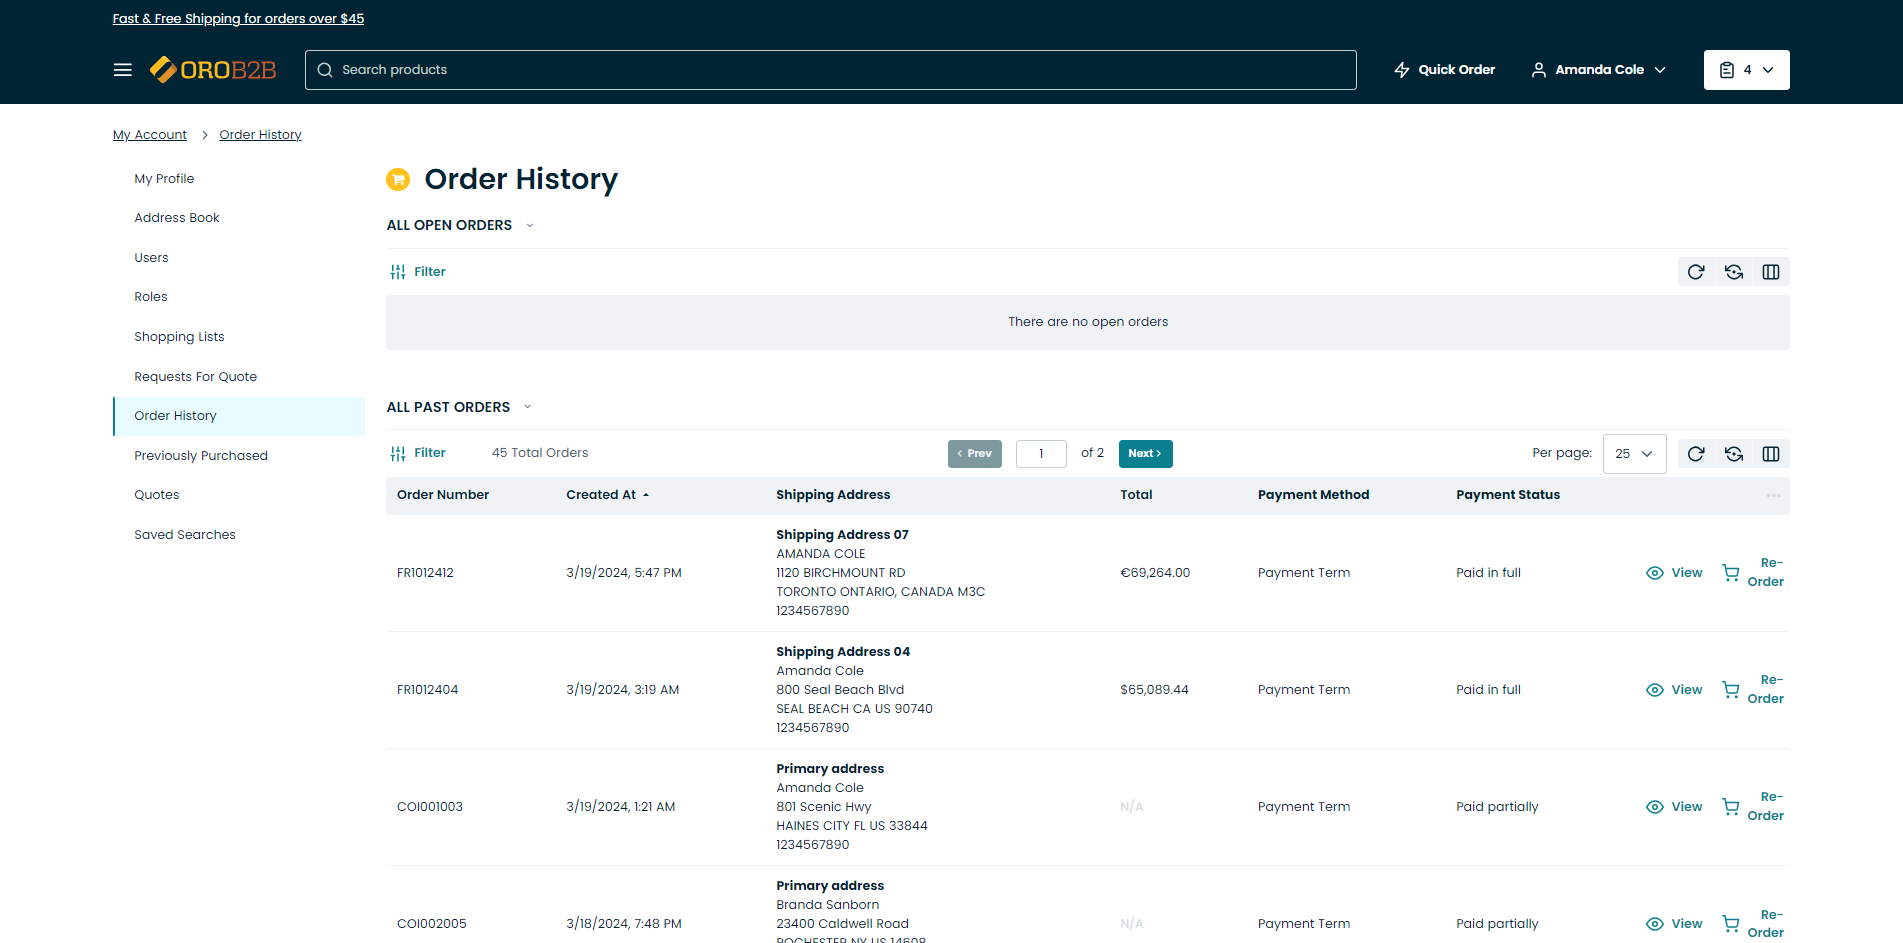
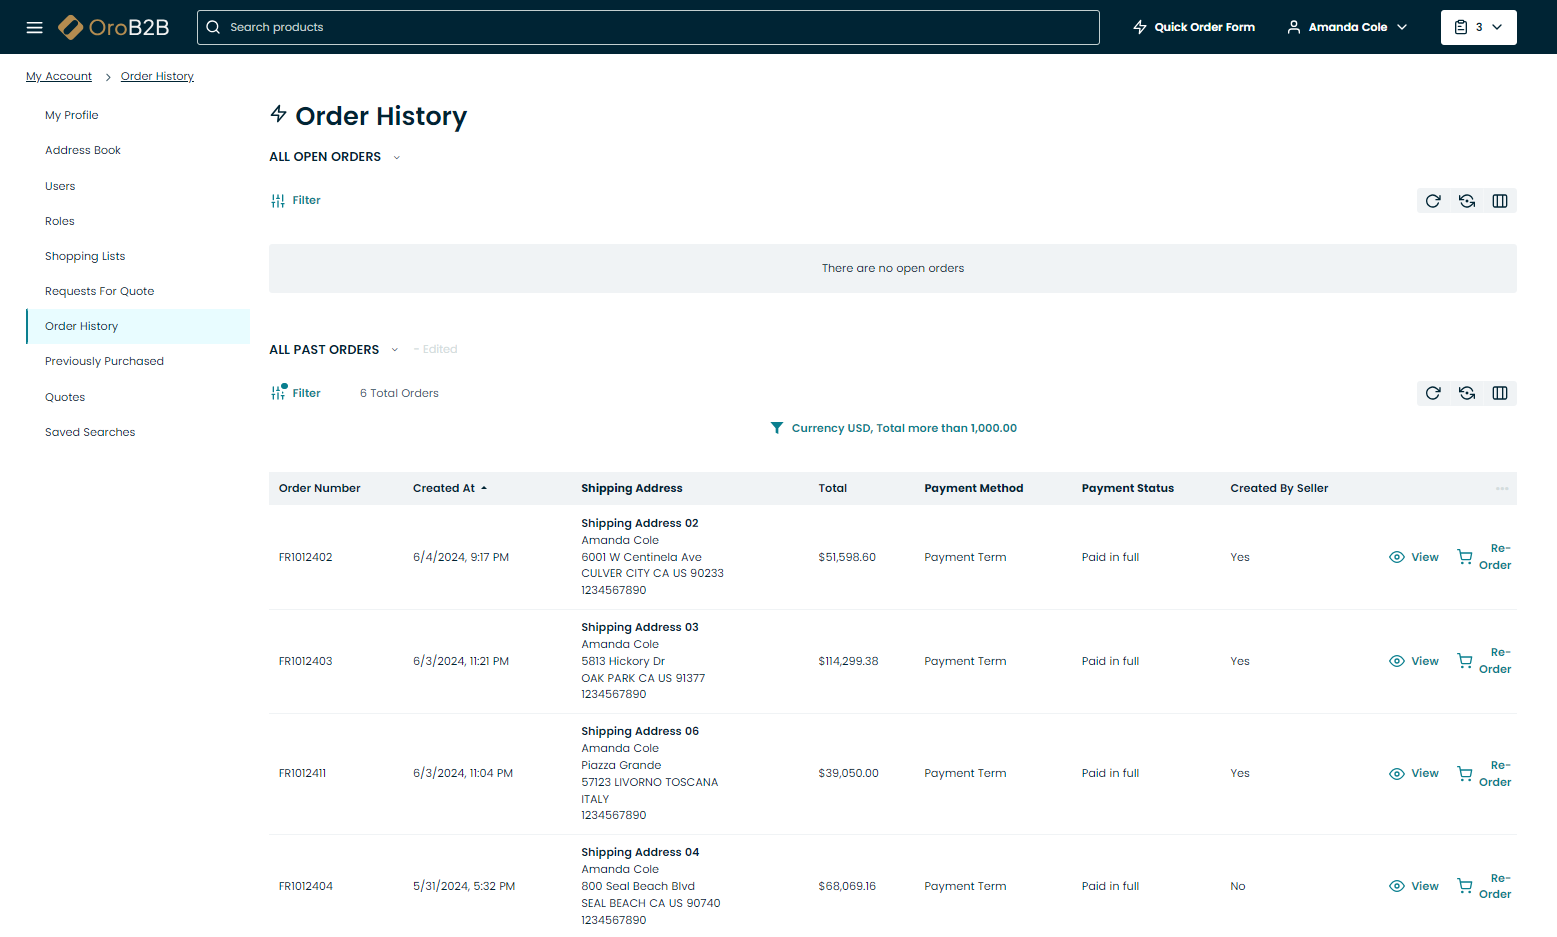
DOC-2213: Order Created By Doc  (#38636)
DOC-2213: Order Created By Documentation

diff --git a/user/back-office/customers/customer-users/index.rst b/user/back-office/customers/customer-users/index.rst
@@ -111,12 +111,14 @@ You may want to delegate some of the customer user management capabilities to th
 .. image:: /user/img/customers/customer_user_roles/CustomerUserRolesManageAccounts_cust.png
    :alt: The list of account management capabilities
 
+.. _user-guide--customers--customer-user-impersonate:
+
 Impersonate a Customer User
 ---------------------------
 
 .. hint:: This feature is available in the Enterprise edition.
 
-For troubleshooting purposes, user impersonation allows back-office users with the **Login as Customer User** :ref:`role capability <admin-capabilities>` to access and operate the OroCommerce storefront as if they were logged in as a specific customer user. Such back-office user is redirected to the website assigned to the customer user they are impersonating (i.e., the website where the customer user registered).
+For troubleshooting purposes or to place orders on behalf of a customer user, you can use user impersonation to allow back-office users with the **Login as Customer User** :ref:`role capability <admin-capabilities>` to access and operate the OroCommerce storefront as if they were logged in as a specific customer user. Such back-office user is redirected to the website assigned to the customer user they are impersonating (i.e., the website where the customer user registered).
 
 .. hint:: Before proceeding, make sure this feature is enabled in the system configuration :ref:`globally <system-configuration-user-impersonation>` or :ref:`per organization <organization-user-impersonation>`.
 
@@ -138,6 +140,15 @@ The storefront session in impersonation mode opens in a new browser tab.
    :alt: Impersonation mode in the storefront
 
 To exit impersonation mode, click **Log out** in the blue banner.
+
+.. note:: If a back-office user placed an order on behalf of the customer user, this will be reflected on the order view page in the storefront with the following note: *This order was created on your behalf by a member of our staff.*
+
+          .. image:: /user/img/storefront/orders/order-impersonated.png
+             :alt: An order view page with a note saying "This order was created on your behalf by a member of our staff".
+
+          In the back-office you can view who created the order on the order view page and in the grid.
+
+          .. image:: /user/img/customers/customer_user_roles/created-by.png
 
 .. _user-guide--customers--customer-user-reset-password:
 

diff --git a/user/storefront/account/order-history.rst b/user/storefront/account/order-history.rst
@@ -6,7 +6,7 @@
 Manage Order History in the Storefront
 ======================================
 
-The Order History section stores the information on all open and submitted orders of registered users. Here, you can check the details on the order number, the date it was created, the address this order was shipped to, the total amount, the payment method and the payment status.
+The Order History section stores the information on all open and submitted orders of registered users. Here, you can check the details on the order number, the date it was created, the address this order was shipped to, the total amount, the payment method and the payment status, and whether the order :ref:`was created by a seller or not <user-guide--customers--customer-user-impersonate>`.
 
 .. image:: /user/img/storefront/orders/order-history.png
 
@@ -27,6 +27,11 @@ From the all past orders table, you can:
 
 * Click |IcView| **View** at the end of the row to view an order or click the order to open it. To return to the Order History page, click **Back to Orders List** on the bottom left of the view page.
 * Click |IcCheckout| **Re-Order** at the end of the row to submit the same order
+
+If the order was created on behalf of the buyer, this will be reflected on the order view page with the following note: *This order was created on your behalf by a member of our staff.*
+
+.. image:: /user/img/storefront/orders/order-impersonated.png
+   :alt: An order view page with a note saying "This order was created on your behalf by a member of our staff".
 
 Information displayed in the tables depends on the columns selected in the |IcSettings| grid settings. Within each of the tables, you have the following :ref:`action buttons <frontstore-guide--navigation-action-buttons>` available:
 

diff --git a/user/back-office/sales/orders/view.rst b/user/back-office/sales/orders/view.rst
@@ -58,10 +58,11 @@ This section is for order details, such as who created the order or to which web
    "**Currency**","The currency in which the order is made."
    "**Subtotal**","The amount due for items in the order. Does not include additional costs, taxes, discounts."
    "**Customer**","The customer that made the order."
-   "**Customer User**","The customer user that made an order on behalf of the customer."
+   "**Customer User**","The customer user that created an order on behalf of their customer."
    "**Internal Status**","The order status visible only in the back-office. See the :ref:`description of internal statuses <doc--orders--statuses--internal>`."
    "**Do Not Ship Later Than**","The date on which the order expires."
    "**Source Document**","If the order has been created from an RFQ, quote, or another order, this field contains a link to the corresponding record. If the order was created from scratch (in the back-office) or through the quick order form (in the storefront), the field shows 'N/A'."
+   "* **Created By**","The name of the user who created an order on behalf of a customer user, either via the back-office or :ref:`customer user impersonation <user-guide--customers--customer-user-impersonate>` in the storefront."
    "**Payment Method**","The payment method selected to pay for the order."
    "**Payment Status**","Whether the order is already paid in full, the payment for the order is authorized, etc."
    "**Website**","The storefront website from which the order was made."

diff --git a/user/back-office/sales/orders/manage.rst b/user/back-office/sales/orders/manage.rst
@@ -29,6 +29,7 @@ The following information about orders is available:
 * **Source Document** --- If the order has been created from an RFQ, quote, or another order, this field contains a link to the corresponding record. If the order has been created from scratch (in the back-office) or the quick order form (in the storefront), the field shows 'N/A'.
 * **Discount** --- The total of all discounts applied to the order.
 * **Created At** --- The date and time the order was created.
+* **Created By** --- The name of the user who created an order on behalf of a customer user, either via the back-office or :ref:`customer user impersonation <user-guide--customers--customer-user-impersonate>` in the storefront.
 * **Updated At** --- The date and time when the order was last updated.
 * **Payment Term** --- The terms and conditions for order payment. For more information, see :ref:`Payment Terms Integration <sys--integrations--manage-integrations--payment-term>`.
 * **Warehouse** --- The warehouse that the goods are shipped from.
